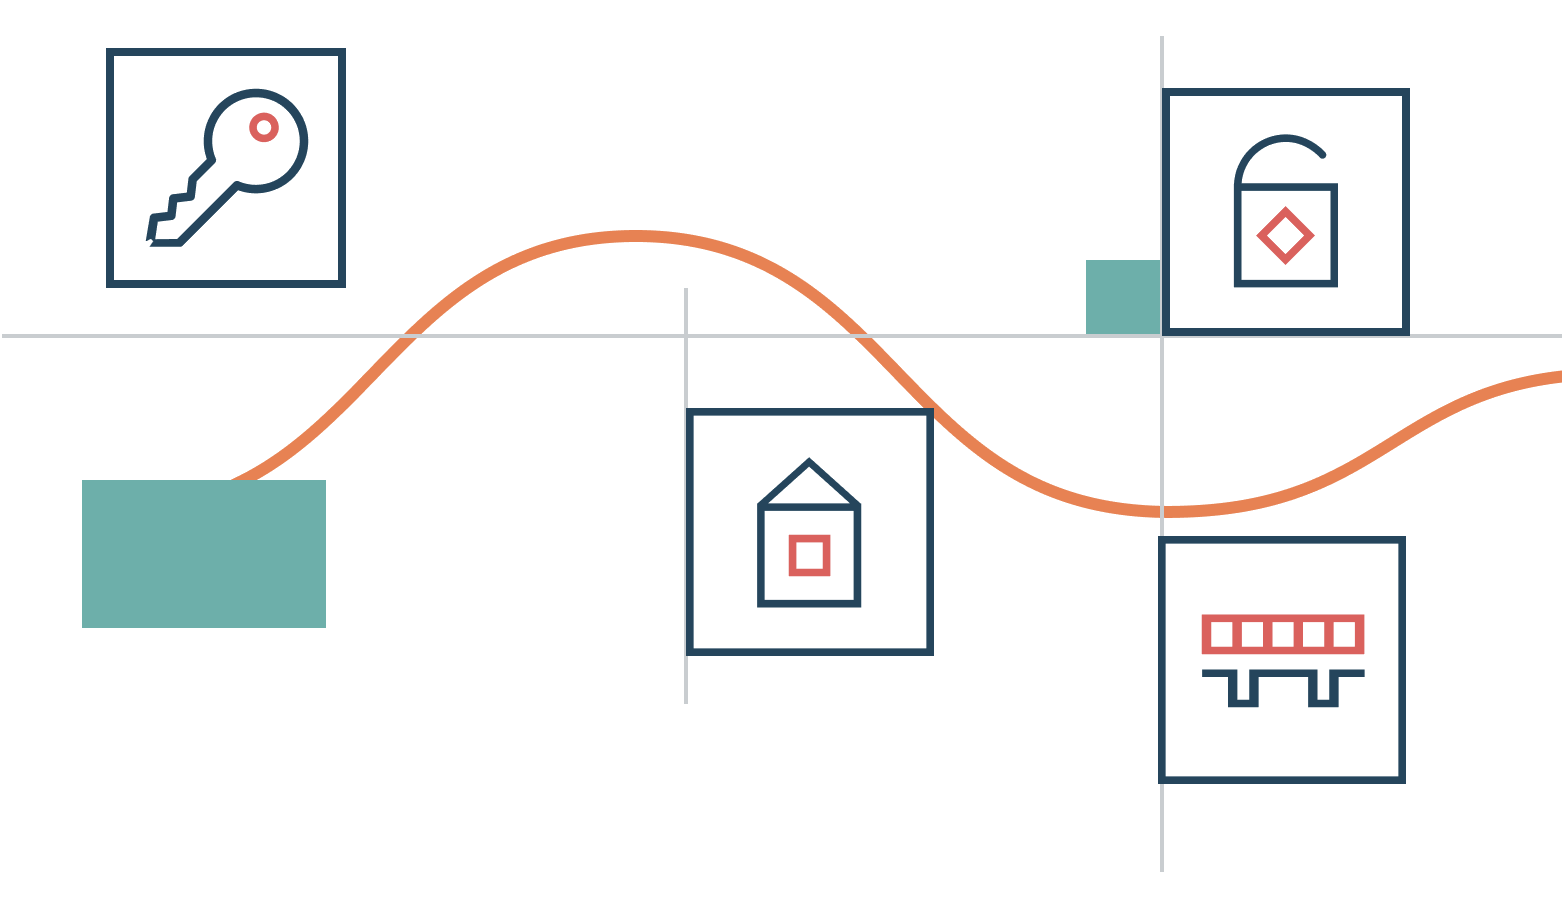
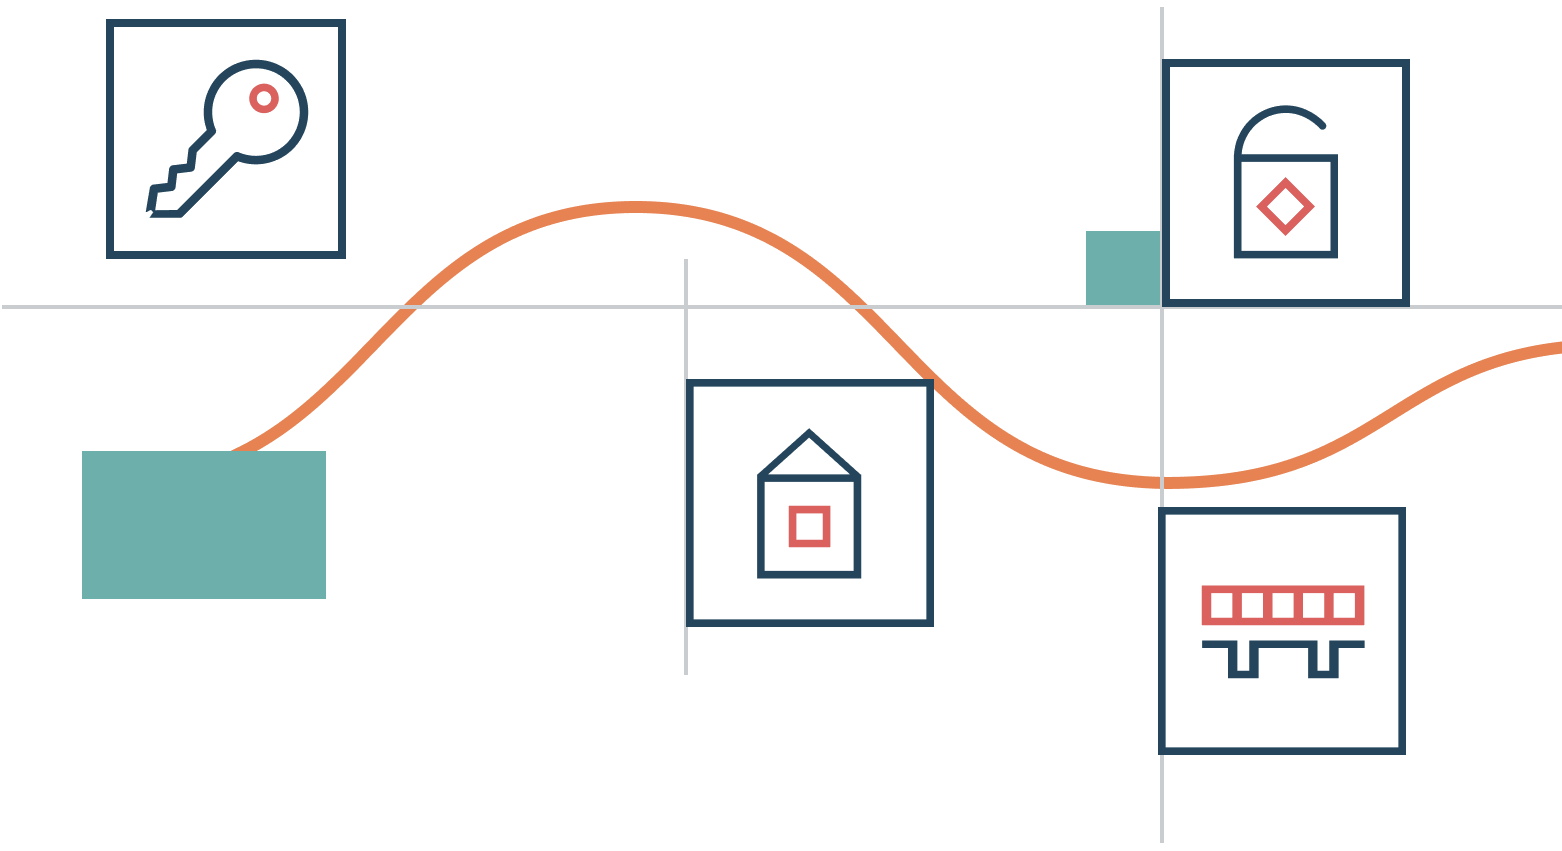
tablet view

diff --git a/src/components/Sections/DeveloperStepsTablet.svelte b/src/components/Sections/DeveloperStepsTablet.svelte
@@ -1,14 +1,67 @@
 <script lang="ts">
   import SectionParagraph from '$components/SectionParagraph.svelte';
-
   import CircleOne from '$components/Icons/CircleOne.svelte';
   import CircleTwo from '$components/Icons/CircleTwo.svelte';
   import CircleThree from '$components/Icons/CircleThree.svelte';
   import CircleFour from '$components/Icons/CircleFour.svelte';
 
-  const sectionParagraphClasses="text-sm mt-f8";
-</script>
+  import { DeveloperStepsText } from '$lib/consts';
 
-<div class="sm:hidden md:block lg:hidden">
-<p>I am tablet steps</p>
+  const sectionParagraphClasses="text-[12px] mt-[16px]";
+  const stepTextClasses="";
+  const stepTitleClasses="text-[40px] font-bold text-navy";
+  const stepClasses="flex flex-col";
+  const circleWidth="60";
+</script>
+<div class="sm:hidden md:block lg:hidden px-[64px]">
+  <section class="flex shrink">`
+    <div>
+      <!-- STEP ONE -->
+      <div class="{stepClasses}" id="step-1">
+        <CircleOne width={circleWidth}/>
+        <div class={stepTextClasses}>
+          <h3 class="{stepTitleClasses}">{DeveloperStepsText.one.title}</h3>
+          <SectionParagraph classes={sectionParagraphClasses}>
+            {@html DeveloperStepsText.one.text_html}
+          </SectionParagraph>
+        </div>
+      </div>
+      <!-- STEP THREE -->
+      <div class="{stepClasses}" id="step-3 mt-[36px]">
+        <CircleThree width={circleWidth} />
+        <div class={stepTextClasses}>
+          <h3 class="{stepTitleClasses}">{DeveloperStepsText.three.title}</h3>
+          <SectionParagraph classes={sectionParagraphClasses}>
+            {DeveloperStepsText.three.text_html}
+          </SectionParagraph>
+        </div>
+      </div>
+    </div>
+
+
+  <div class="ml-f12">
+    <!-- STEP TWO -->
+    <div class="{stepClasses} pt-[98px]" id="step-2">
+      <CircleTwo width={circleWidth}/>
+      <div class={stepTextClasses}>
+        <h3 class="{stepTitleClasses}">{DeveloperStepsText.two.title}</h3>
+        <SectionParagraph classes={sectionParagraphClasses}>
+          {DeveloperStepsText.two.text_html}
+        </SectionParagraph>
+      </div>
+    </div>
+    <!-- STEP FOUR -->
+    <div class="{stepClasses} mt-[94px]" id="step-4">
+      <CircleFour width={circleWidth} />
+      <div class={stepTextClasses}>
+        <h3 class="{stepTitleClasses}">{DeveloperStepsText.four.title}</h3>
+        <SectionParagraph classes={sectionParagraphClasses}>
+          {DeveloperStepsText.four.text_html}
+        </SectionParagraph>
+      </div>
+    </div>
+  </div>
+  </section>
+
 </div>
+<!-- Developer Steps -->

diff --git a/src/components/Sections/DeveloperSteps.svelte b/src/components/Sections/DeveloperSteps.svelte
@@ -9,6 +9,7 @@ import { DeveloperStepsText } from '$lib/consts';
 
 const sectionParagraphClasses="text-sm mt-f8";
 const sectionClasses="ml-[30px]";
+const stepTitleClasses="text-[44px] font-bold text-navy";
 </script>
 <div class="sm:hidden lg:block">
   <section class="flex flex-wrap justify-end shrink">`
@@ -16,7 +17,7 @@ const sectionClasses="ml-[30px]";
     <div class="flex pl-0 align-super basis-[500px] " id="step-1">
       <CircleOne />
       <div class={sectionClasses}>
-        <h3 class="font-bold">{DeveloperStepsText.one.title}</h3>
+        <h3 class={stepTitleClasses}>{DeveloperStepsText.one.title}</h3>
         <SectionParagraph classes={sectionParagraphClasses}>
           {DeveloperStepsText.one.text_html}
         </SectionParagraph>
@@ -26,7 +27,7 @@ const sectionClasses="ml-[30px]";
     <div class="flex pt-f32 align-sub h-1/2 basis-[500px]" id="step-2">
       <CircleTwo />
       <div class={sectionClasses}>
-        <h3 class="font-bold">{DeveloperStepsText.two.title}</h3>
+        <h3 class={stepTitleClasses}>{DeveloperStepsText.two.title}</h3>
         <SectionParagraph classes={sectionParagraphClasses}>
           {DeveloperStepsText.two.text_html}
         </SectionParagraph>
@@ -37,7 +38,7 @@ const sectionClasses="ml-[30px]";
     <div class="flex pl align-super basis-1/2 pl-f128 " id="step-3">
       <CircleThree />
       <div class={sectionClasses}>
-        <h3 class="font-bold">{DeveloperStepsText.three.title}</h3>
+        <h3 class={stepTitleClasses}>{DeveloperStepsText.three.title}</h3>
         <SectionParagraph classes={sectionParagraphClasses}>
           {DeveloperStepsText.three.text_html}
         </SectionParagraph>
@@ -47,7 +48,7 @@ const sectionClasses="ml-[30px]";
     <div class="flex pl-0 basis-1/2  pl-f74 pt-f48 align-sub" id="step-4">
       <CircleFour />
       <div class={sectionClasses}>
-        <h3 class="font-bold">{DeveloperStepsText.four.title}</h3>
+        <h3 class={stepTitleClasses}>{DeveloperStepsText.four.title}</h3>
         <SectionParagraph classes={sectionParagraphClasses}>
           {DeveloperStepsText.four.text_html}
         </SectionParagraph>

diff --git a/src/components/Sections/Developers.svelte b/src/components/Sections/Developers.svelte
@@ -13,17 +13,17 @@
 </script>
 
 <!-- Graphic and Header -->
-<SectionWrapper id="developers" classes="pt-[94px]">
+<SectionWrapper id="developers" classes="sm:pt-[30px] md:pt-[38px] lg:pt-[34px]">
   <section class="flex flex-col lg:flex-row shrink">
-    <div class="developer-squiggles lg:mr-f96">
+    <div class="developer-squiggles  md:mr-[32px] lg:mr-f96">
       <img src={FrequencyDevelopersMobile} alt="abstract developer timeline" class="md:hidden" />
       <img src={FrequencyDevelopersTablet} alt="abstract developer timeline" class="sm:hidden md:block lg:hidden" />
       <img src={FrequencyDevelopers} alt="abstract developer timeline" class="sm:hidden lg:block max-w-[722px] ml-f16" />
     </div>
-    <div class="px-[36px] lg:px-[128px]">
+    <div class="px-[36px] md:px-[64px] lg:px-[128px]">
       <SlideIn class="lg:basis-1/3]">
-        <h2 class="title-50 text-teal mx-0 w-full">{DeveloperStepsText.header.title}</h2>
-        <p class="title text-[22px] font-bold mt-f24">{DeveloperStepsText.header.text_html}</p>
+        <h2 class="text-[52px] font-bold text-teal mx-0 w-full md:mt-[24px]">{DeveloperStepsText.header.title}</h2>
+        <p class="text-[22px] font-bold mt-f24">{DeveloperStepsText.header.text_html}</p>
       </SlideIn>
     </div>
   </section>

diff --git a/src/components/Sections/DeveloperStepsMobile.svelte b/src/components/Sections/DeveloperStepsMobile.svelte
@@ -8,7 +8,7 @@
   import { DeveloperStepsText } from '$lib/consts';
 
   const sectionParagraphClasses="text-normal mt-f12 leading-[20px]";
-  const stepTitleClasses="text-[44px] font-bold";
+  const stepTitleClasses="text-[44px] font-bold text-navy";
   const circleWidth="60";
   const sectionClasses="flex flex-col px-[36px]";
   const stepClasses="py-[12px]";
